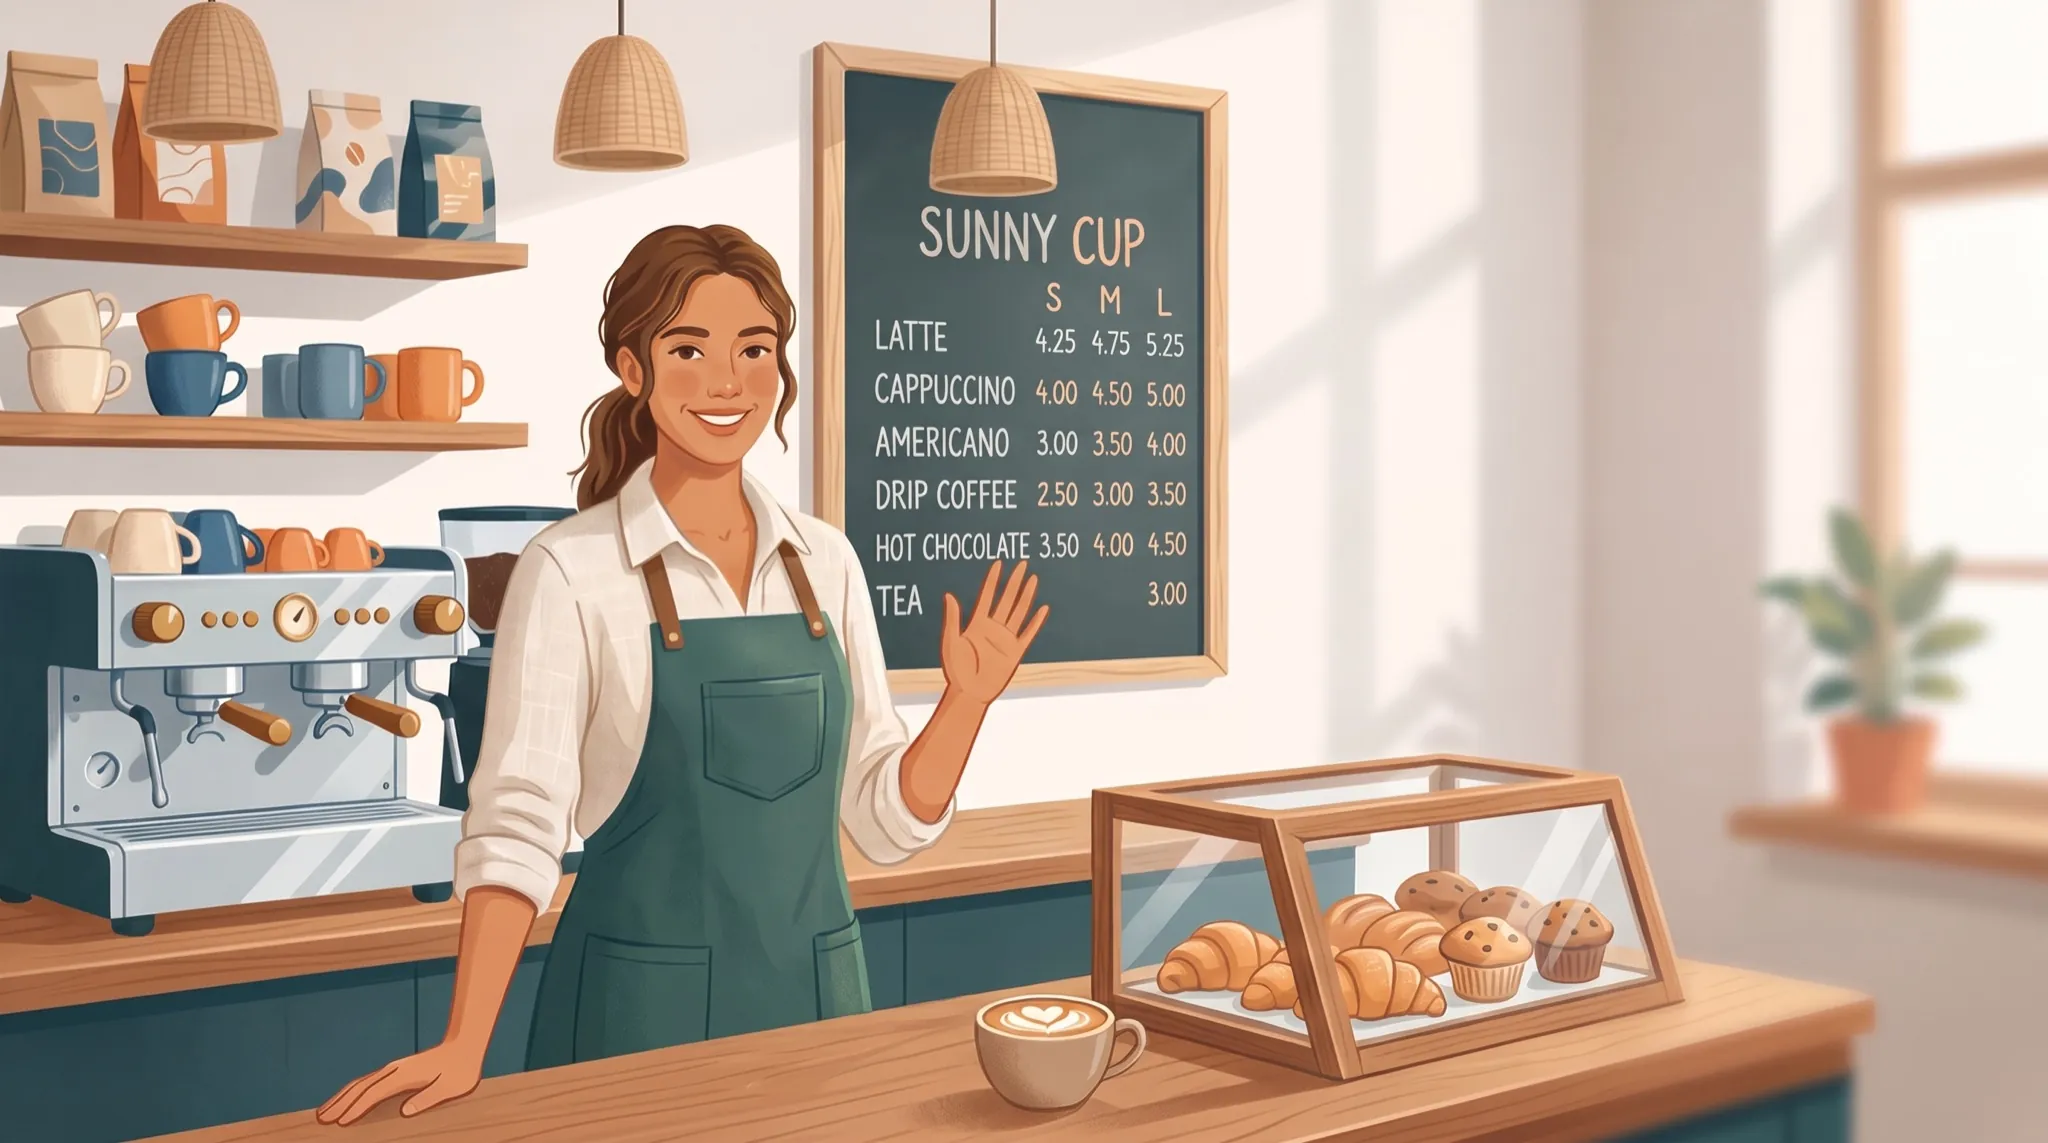
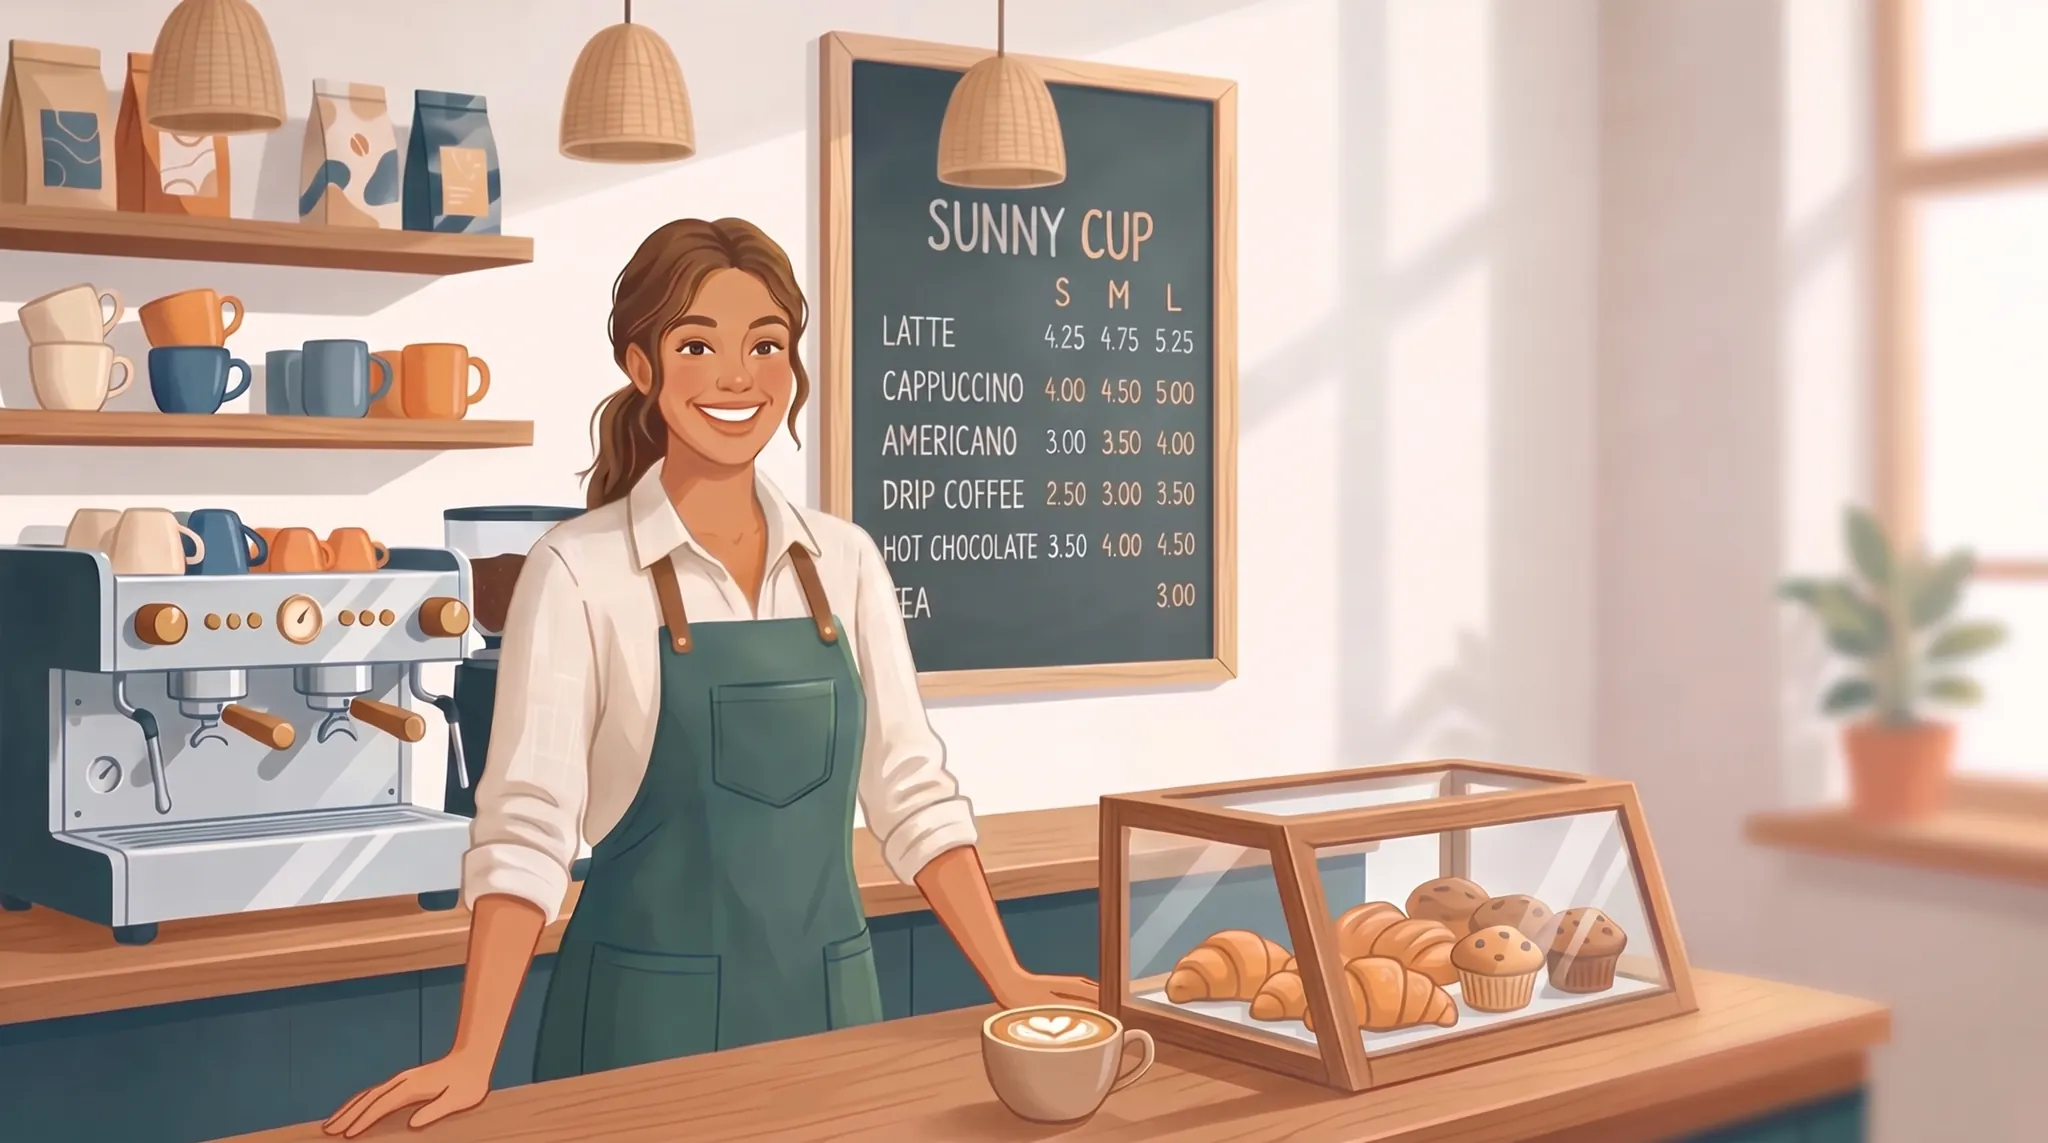
Model answers word by word; the café's three painterly pictures redrawn to match
- The guide's model answers ("Ką sakyti?") are interlinear like the other person's lines: the
  Lithuanian under each word (with the Vertimas toggle), IPA under that, and the natural sentence
  below.
- Face close-ups of all 265 scene pictures: the café's greet, size and milk were the only clear
  style outliers (softer, more painterly than the other six café pictures and the rest of the game).
  Redrawn with Higgsfield by editing the café's "done" picture (6 jobs, 12 credits); the new greet
  keeps both hands on the counter, because a wave kept covering the menu prices. The start screen's
  café card uses the new greet.

Changed region(s): [[0.0, 0.0, 0.9375, 1.0], [0.8438, 0.0, 1.0, 0.7349], [0.3125, 0.8268, 0.3438, 0.8574]]

diff --git a/src/ui/styles.css b/src/ui/styles.css
@@ -278,7 +278,7 @@ a.icon-btn, a.lh-tool { text-decoration: none; }
 .gx .il.plain { line-height: 1.25; }
 .gx .u { max-width: 100%; }
 .gx .u .ipa { font-size: 0.6em; white-space: normal; overflow-wrap: anywhere; }
-.gx .il + .gx-lt { margin-top: 5px; }
+.gx .nat { font-size: 0.84em; margin-top: 6px; padding: 1px 0 1px 9px; }
 .gx .play, .hint-row .play {
   flex: none; border: 0; background: var(--accent-soft); color: var(--accent); width: 40px; height: 40px; border-radius: 50%;
   display: grid; place-items: center; cursor: pointer; transition: background-color 0.15s, color 0.15s, box-shadow 0.15s, transform 0.1s;
@@ -286,7 +286,6 @@ a.icon-btn, a.lh-tool { text-decoration: none; }
 .gx .play:hover, .hint-row .play:hover { background: var(--accent); color: #fff; box-shadow: 0 5px 12px -5px rgba(31, 111, 120, 0.7); }
 .gx .play:active, .hint-row .play:active { transform: scale(0.93); }
 .gx-en { font-family: var(--en); font-size: 1.28em; line-height: 1.2; color: var(--ink); }
-.gx-lt { font-size: 0.84em; color: var(--ink-soft); margin-top: 1px; }
 .guide-alt { display: flex; flex-wrap: wrap; gap: 4px 10px; align-items: baseline; font-size: 0.85em; color: var(--ink-faint); padding-top: 8px; border-top: 1px dashed #eadfcc; }
 .guide-alt span { font-weight: 700; }
 .guide-alt button { border: 0; background: none; padding: 0; color: var(--accent); font-weight: 800; text-decoration: underline; text-decoration-color: rgba(31, 111, 120, 0.35); text-underline-offset: 3px; cursor: pointer; font-size: 1em; }

diff --git a/src/ui/Conversation.tsx b/src/ui/Conversation.tsx
@@ -318,8 +318,8 @@ function Guide({ sit, formal, gender }: { sit: SituationDef; formal: boolean; ge
             <div className="gx" key={i}>
               <button className="play" onClick={() => { game?.activeSession?.stopListening(); audio.play(COACH_VOICE, 1, ex.say); }} title="Klausyti" aria-label="Klausyti"><Icon name="speaker" size={19} /></button>
               <div className="gx-text">
-                <Interlinear s={ex} lt={false} ipa={settings.sayIpa} />
-                {settings.sayLt && <div className="gx-lt" lang="lt">{ex.nat}</div>}
+                {/* word by word, as the other person's lines: Lithuanian under each word, the natural sentence below */}
+                <Interlinear s={ex} lt={settings.sayLt} ipa={settings.sayIpa} />
                 <RepeatResult en={ex.en} />
               </div>
               <RepeatButton ex={ex} />

diff --git a/docs/SCENE-ART.md b/docs/SCENE-ART.md
@@ -147,4 +147,6 @@ Model: Higgsfield `nano_banana_pro` (Nano Banana Pro), `aspect_ratio: "16:9"`, `
   - A rare branch shares a picture: a burger order gets the "wrong dish" burger.
   - A few people are framed full-length rather than waist up: Rita, Mr. Patel, and Vinnie at the taxi stand.
 
+**Style fix (30 Sep 2026):** the owner noticed that some café pictures were more painterly than the rest. Face close-ups of all 265 pictures, scene by scene, showed the café's greet, size and milk as the only clear outliers (softer shading and a longer face; the other six café pictures and the rest of the game are the flatter look). They were redrawn by editing the café's `done` picture (uploaded as the reference) with the pose prompt above, 6 jobs (about 12 credits): greet took four tries, because the model kept putting her waving hand over the menu prices, so the new greet has both hands on the counter. Other differences seen in close-ups were only pose, expression or framing.
+
 **Songs 31–35 (28 Sep 2026):** ChatGPT made the 40 pictures of s31–s35 from [`PICTURES-WANTED.md`](PICTURES-WANTED.md), one commit per scene. They were checked for style, the people's looks, the text (the lane number, the self-checkout screen and the gym's price board) and `tools/scene-walk.ts`. One compromise: the bus stop (s33) has a sunny sky, although the brief asked for a soft, partly cloudy one that fits every weather Frank talks about.
